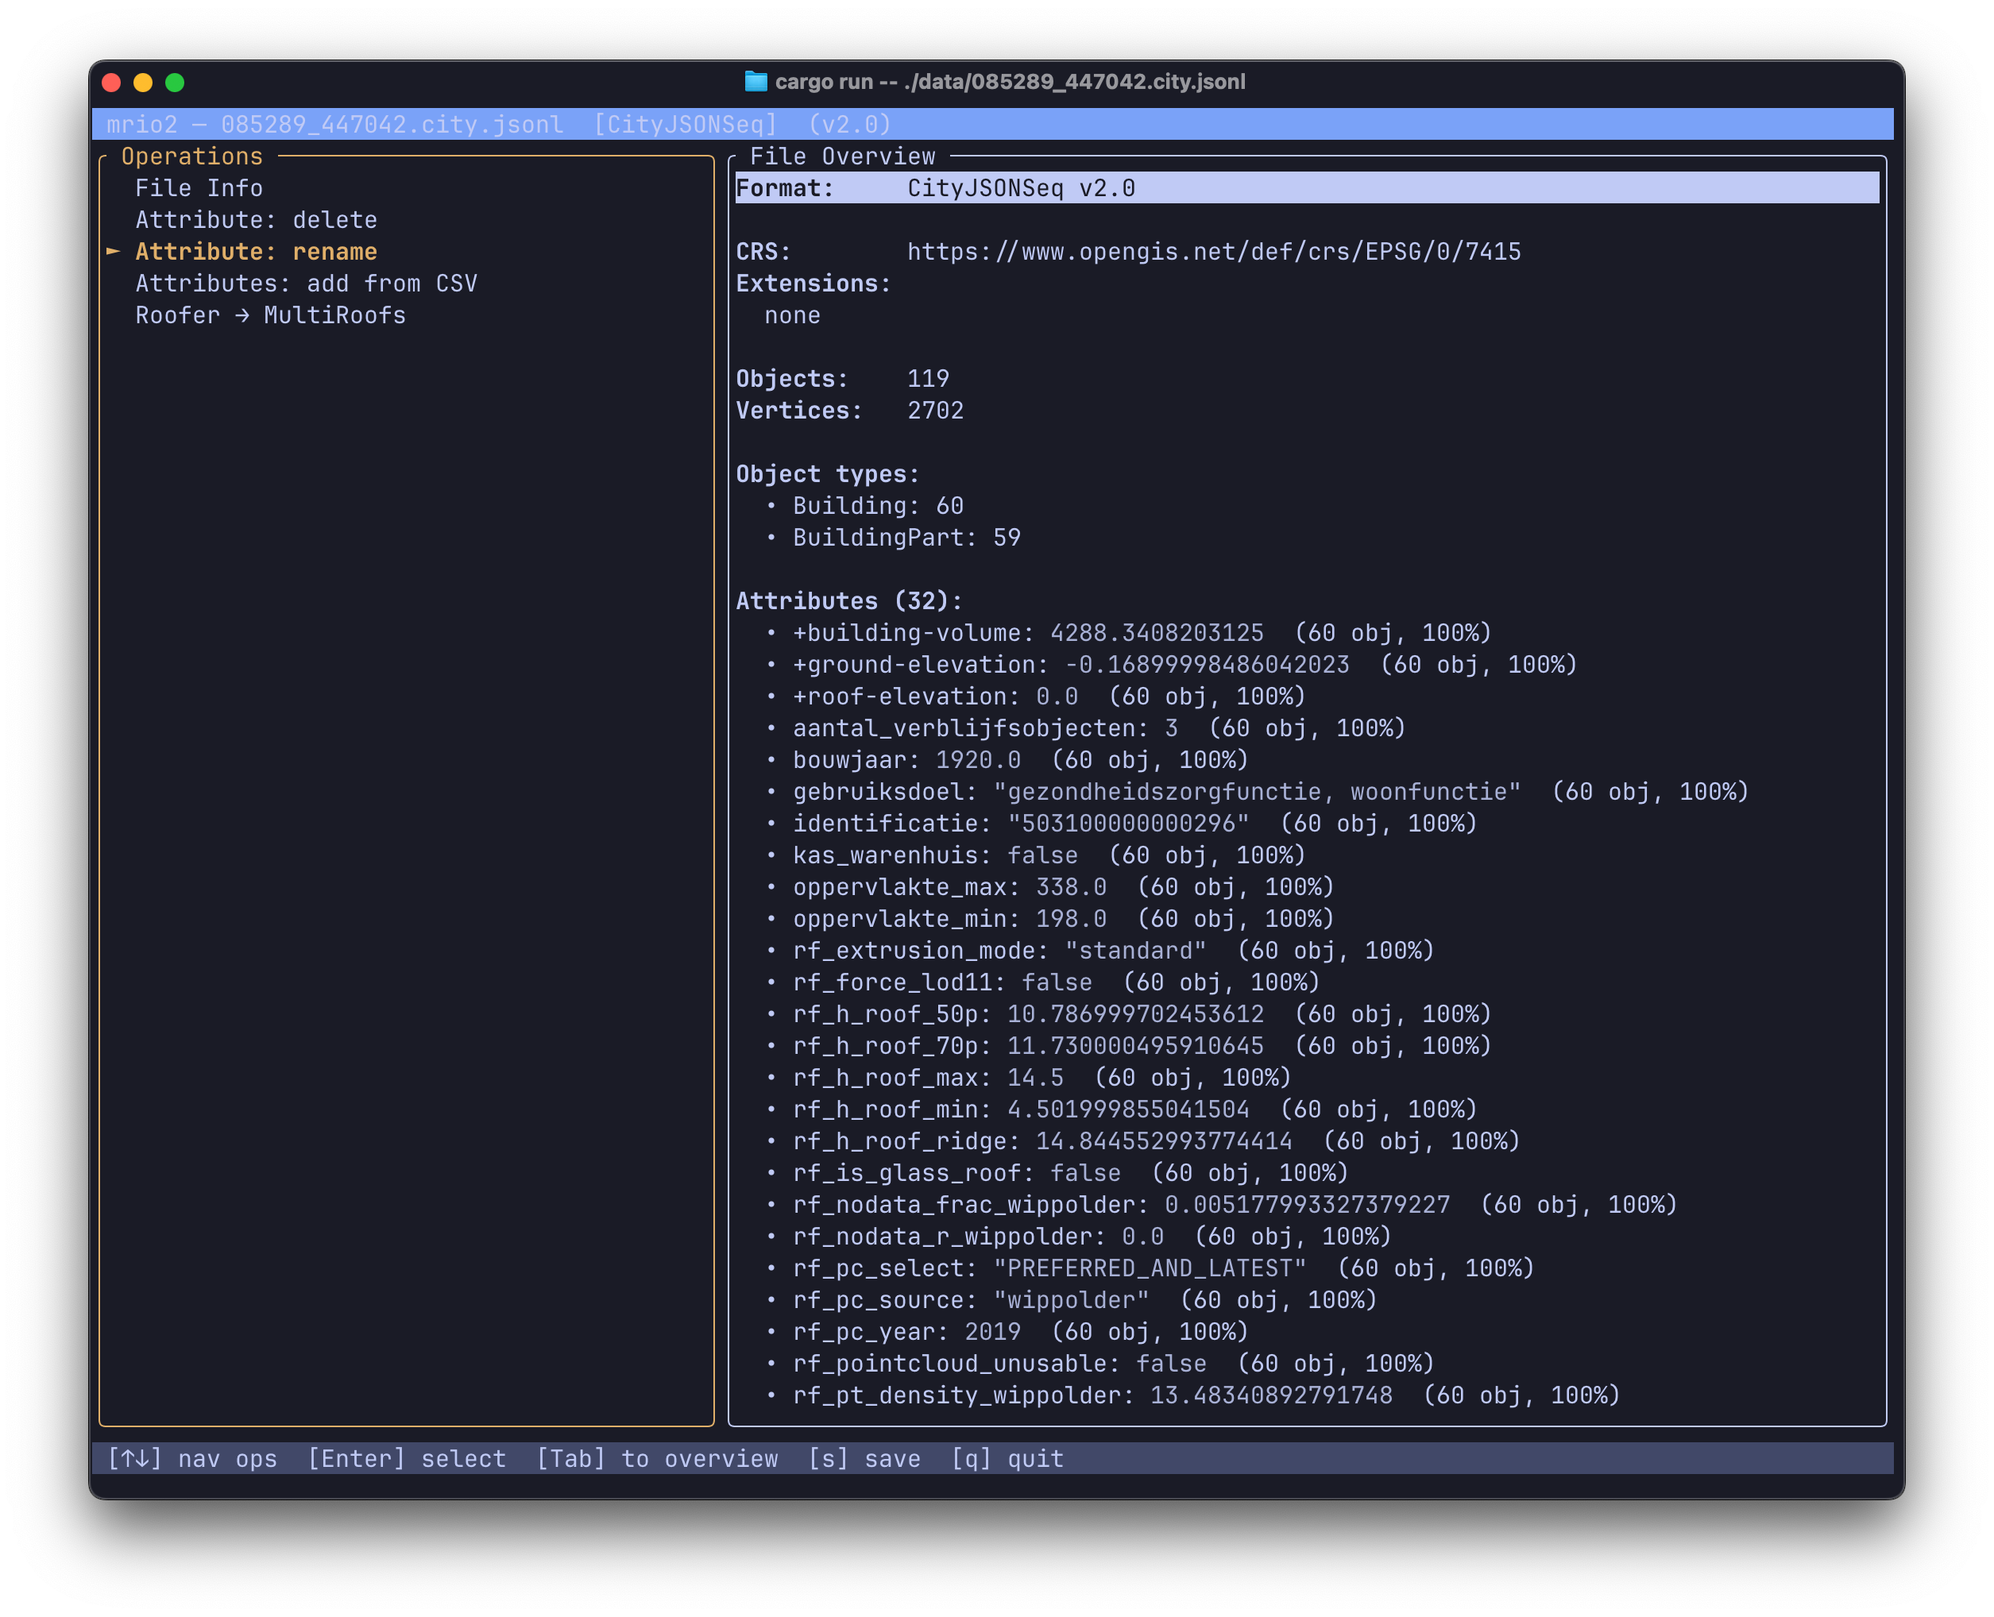
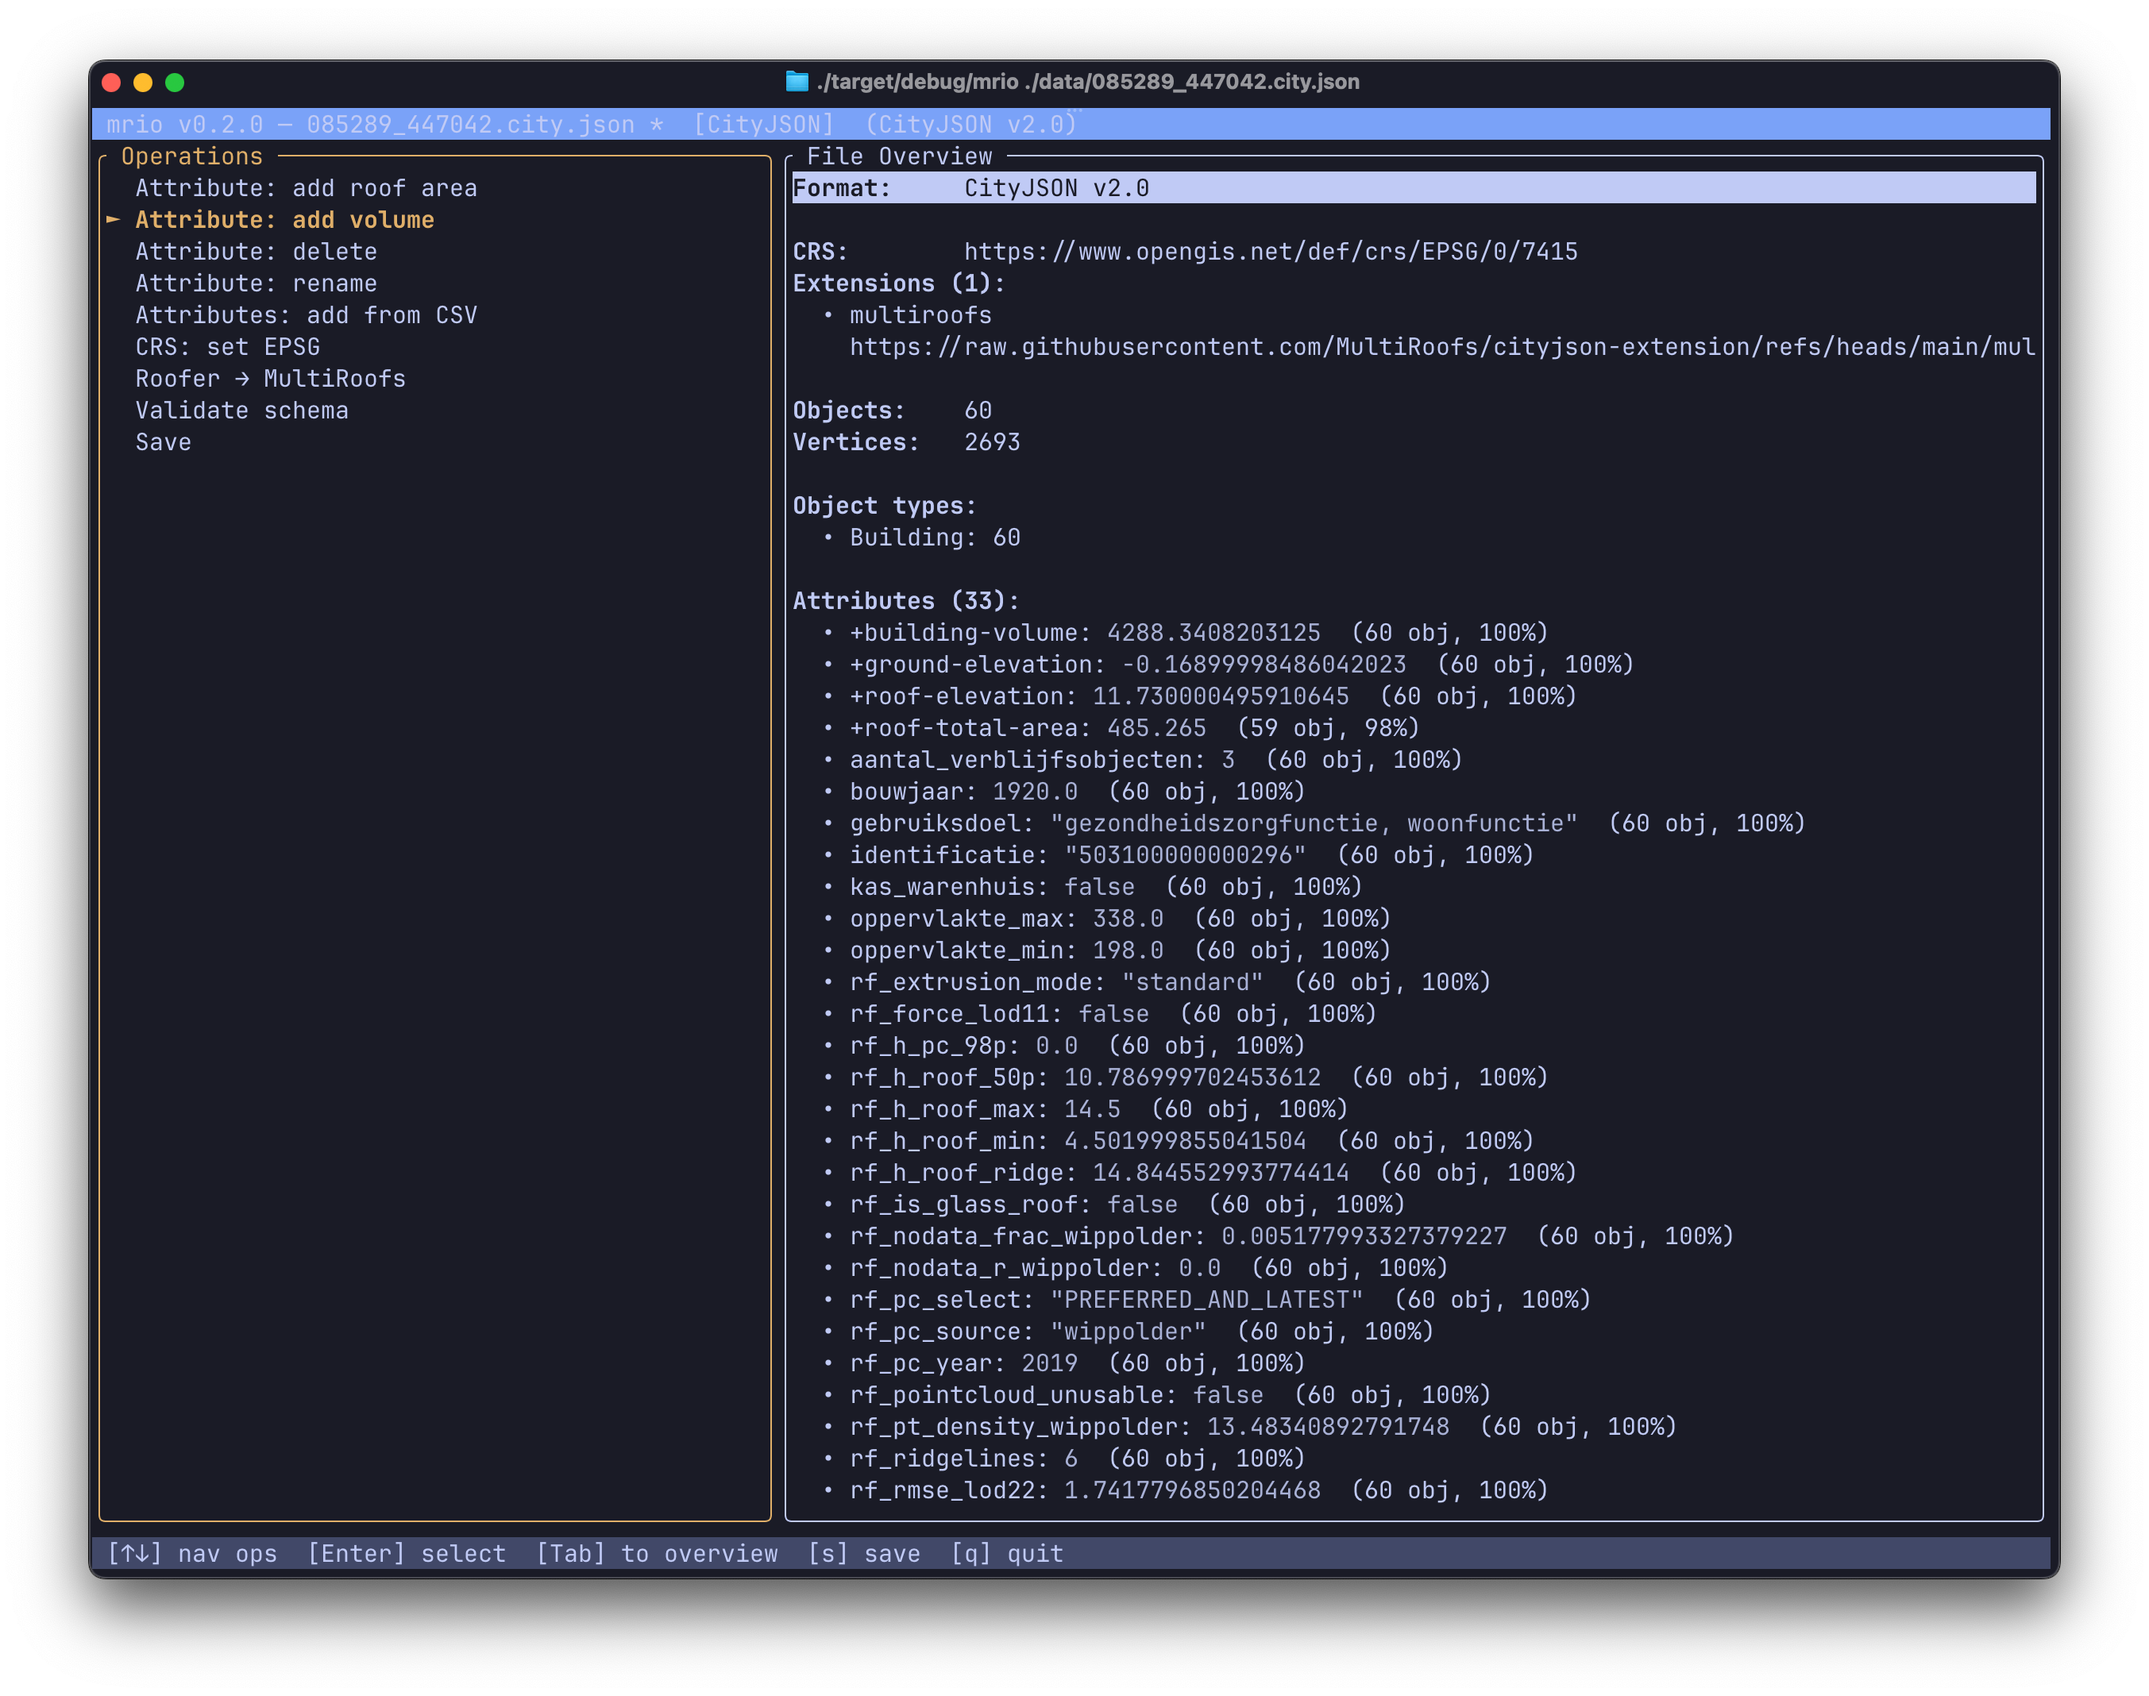
Add gui for the readme

Changed region(s): [[0.0311, 0.0309, 0.9633, 0.9283], [0.7458, 0.7736, 0.7769, 0.8045]]

diff --git a/README.md b/README.md
@@ -26,6 +26,8 @@ cargo run -p mrio-cli -- data/3dbag_b2.city.jsonl --output-format cityjson   # f
 
 ### Web application
 
+![](./misc/gui.png)
+
 Requires [wasm-pack](https://rustwasm.github.io/wasm-pack/installer/) for building the WebAssembly module.
 
 ```sh
